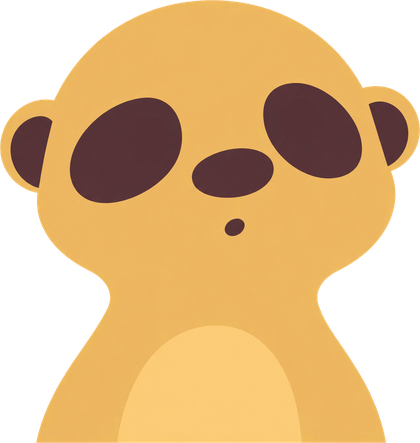
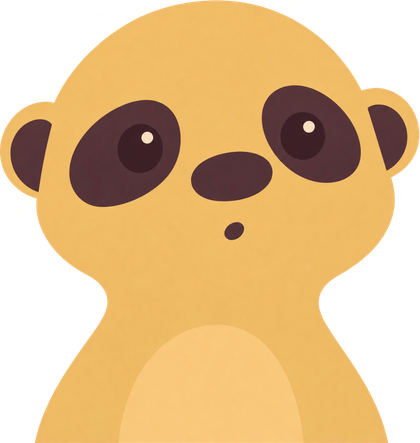
fix(web): keep member delete to one request and give the mascot eyes
The confirm button waited on nothing, so a second click sent another
delete that failed with not_found and replaced the first one's
callbacks: the page stayed on the gone member with an error toast.
The button now shows the request in flight, and a member that is
already gone counts as deleted.

The empty-state mascot had eye patches but no eyes; it now has them,
as in the avatars.

diff --git a/apps/web/src/lib/queries/agents.ts b/apps/web/src/lib/queries/agents.ts
@@ -1,6 +1,6 @@
 import { useQuery, useMutation, useQueryClient } from '@tanstack/react-query';
 import type * as DTO from '../api/generated';
-import { call } from '../api/client';
+import { ApiError, call } from '../api/client';
 import { keys } from './keys';
 export function useAgents(input: DTO.ListAgentsRequest, enabled = true) {
   return useQuery({
@@ -76,7 +76,12 @@ export function useResumeAgent() {
 export function useDeleteAgent() {
   const client = useQueryClient();
   return useMutation({
-    mutationFn: (input: DTO.DeleteAgentRequest) => call('delete_agent', input),
+    // A member that is already gone counts as deleted.
+    mutationFn: (input: DTO.DeleteAgentRequest) =>
+      call('delete_agent', input).catch((error: unknown) => {
+        if (error instanceof ApiError && error.code === 'not_found') return null;
+        throw error;
+      }),
     onSuccess: async () => {
       await client.invalidateQueries({ queryKey: keys.agents });
     },

diff --git a/apps/web/src/design/ConfirmDialog.tsx b/apps/web/src/design/ConfirmDialog.tsx
@@ -13,6 +13,8 @@ export type ConfirmDialogProps = Omit<UIProps, 'className' | 'style'> & {
   cancelLabel: string;
   onConfirm: () => void;
   tone?: 'danger';
+  /** The confirmed action is in flight; the confirm button waits for it. */
+  pending?: boolean;
 };
 export function ConfirmDialog({
   open,
@@ -24,6 +26,7 @@ export function ConfirmDialog({
   cancelLabel,
   onConfirm,
   tone,
+  pending,
   ...rest
 }: ConfirmDialogProps) {
   return (
@@ -37,7 +40,11 @@ export function ConfirmDialog({
       footer={
         <div className={css.root}>
           <Button onClick={onClose}>{cancelLabel}</Button>
-          <Button variant={tone === 'danger' ? 'danger' : 'primary'} onClick={onConfirm}>
+          <Button
+            variant={tone === 'danger' ? 'danger' : 'primary'}
+            loading={pending}
+            onClick={onConfirm}
+          >
             {confirmLabel}
           </Button>
         </div>

diff --git a/apps/web/src/features/members/DeleteMemberDialog.tsx b/apps/web/src/features/members/DeleteMemberDialog.tsx
@@ -7,12 +7,14 @@ export function DeleteMemberDialog({
   avatar,
   onClose,
   onConfirm,
+  pending,
 }: {
   open: boolean;
   name: string;
   avatar?: string;
   onClose: () => void;
   onConfirm: () => void;
+  pending: boolean;
 }) {
   const t = useT();
   return (
@@ -25,6 +27,7 @@ export function DeleteMemberDialog({
       confirmLabel={t('members.delete')}
       cancelLabel={t('common.cancel')}
       onConfirm={onConfirm}
+      pending={pending}
       tone="danger"
       data-testid="confirm-delete-member"
     />

diff --git a/apps/web/src/features/members/MemberBench.tsx b/apps/web/src/features/members/MemberBench.tsx
@@ -181,8 +181,10 @@ export function MemberBench({
           name={m.draft.name}
           avatar={m.avatarSrc}
           onClose={() => setConfirming(false)}
+          pending={remove.isPending}
           onConfirm={() =>
             ref &&
+            !remove.isPending &&
             remove.mutate(
               { request_id: crypto.randomUUID(), agent: ref },
               { onSuccess: onBack, onError: fail, onSettled: () => setConfirming(false) },
